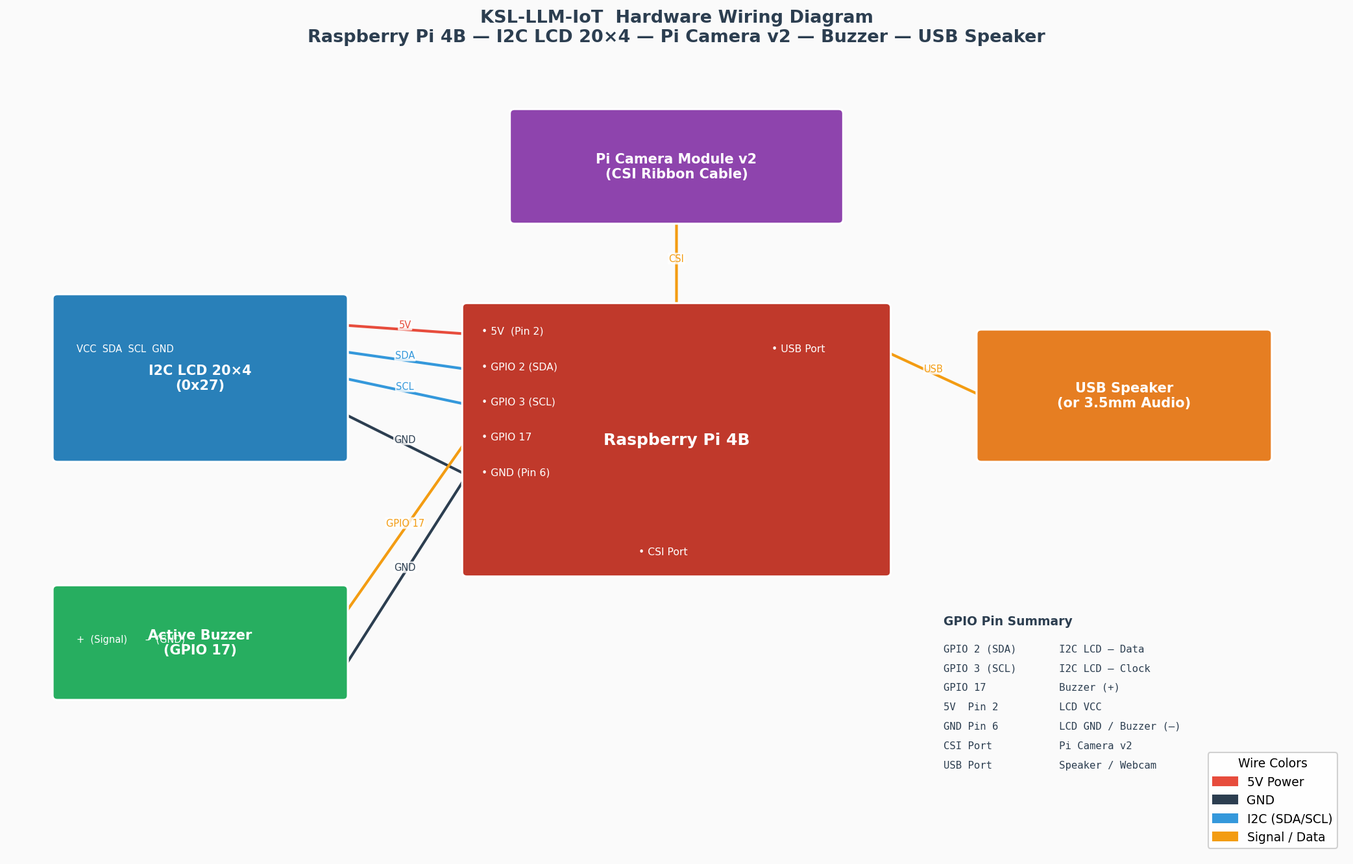
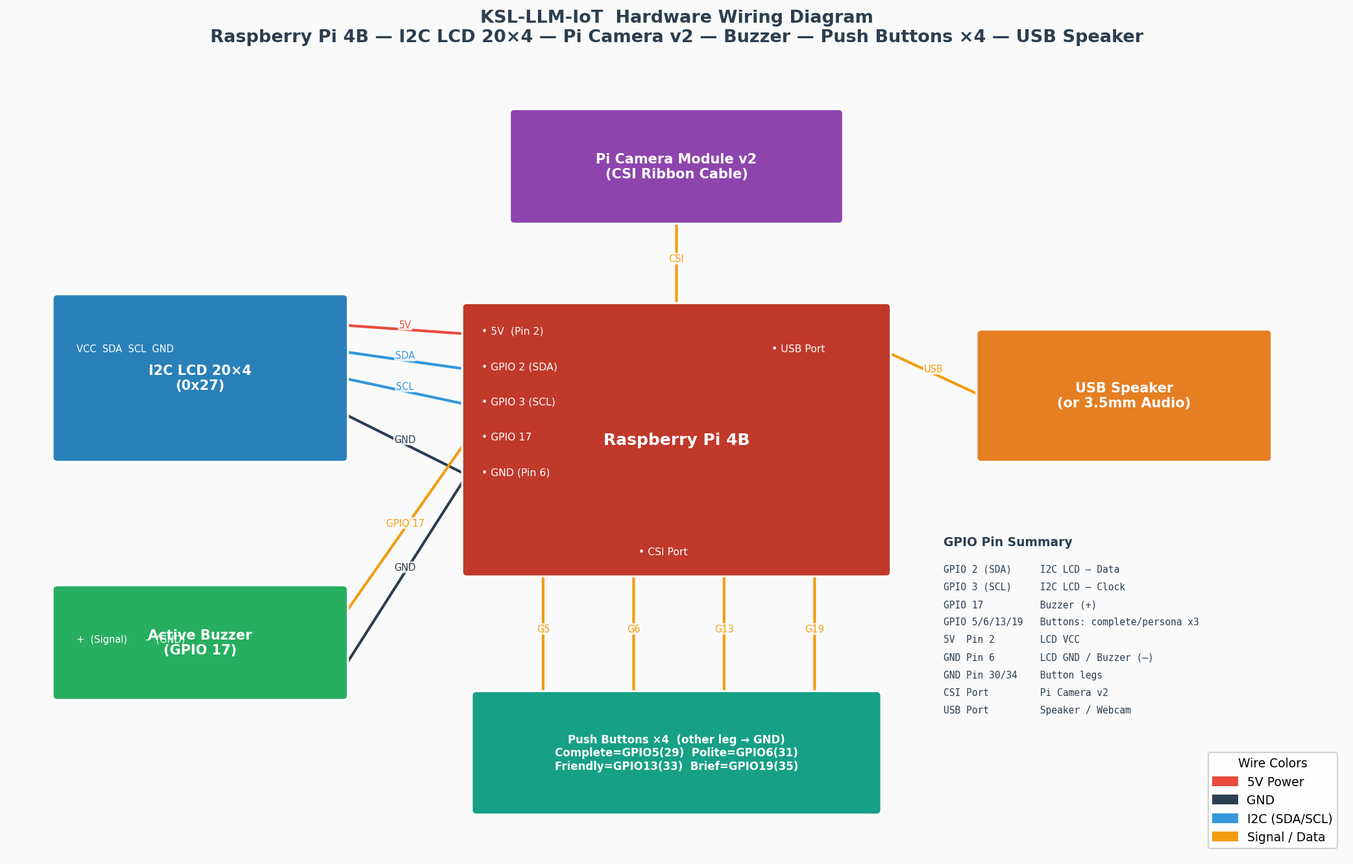
docs: 문서 전면 동기화 + CI 확장 + 의존성 핀
- USER_MANUAL: §0 트리거·문체, §1.1 버튼 결선, §2.1 .env 표(버튼·페르소나·
  HANDEDNESS·KSL_LABELS_OVERRIDE), §3.2 버튼 중심 동작 순서, §3.3 30단어
  개정, §6 버튼 트러블슈팅, §9 changelog 4행
- README: 결선표(버튼 4행+GND 페어), 30단어 표를 새 라벨로 교체(구버전
  잔재 — USER_MANUAL과 상충 상태였음), 131 파이프라인 다이어그램,
  Project Structure에 feature_format·button_input·scripts·tools 반영
- HANDOFF: §1.2 서버 E2E 검증 결과, §1.4 131 정책 개정, §1.5 축 정렬
  실측·45개 WORD 다운로드 목록·--exact, §2 함정 2-K~2-O, §4.3 버튼 결선
- 결선도 PNG 재생성 (버튼 4개 + GPIO 요약 표)
- requirements: mediapipe<0.10.30(solutions API 제거 대응),
  tensorflow<2.16(Keras3 LSTM TFLite 변환 MLIR 버그), numpy<2
- CI: compileall 범위 확장(tools·convert_aihub), augment·button 테스트 추가
- .gitignore: docs/superpowers/, .remember/

diff --git a/docs/generate_wiring_diagram.py b/docs/generate_wiring_diagram.py
@@ -22,6 +22,7 @@ C_LCD    = "#2980b9"   # LCD — 파랑
 C_BUZZ   = "#27ae60"   # 부저 — 초록
 C_CAM    = "#8e44ad"   # 카메라 — 보라
 C_SPK    = "#e67e22"   # 스피커 — 주황
+C_BTN    = "#16a085"   # 푸시 버튼 — 청록
 C_WIRE_5V  = "#e74c3c" # 5V 선
 C_WIRE_GND = "#2c3e50" # GND 선
 C_WIRE_SIG = "#f39c12" # 신호 선
@@ -60,7 +61,8 @@ def main():
     ax.set_ylim(0, 9)
     ax.axis('off')
     ax.set_title("KSL-LLM-IoT  Hardware Wiring Diagram\n"
-                 "Raspberry Pi 4B — I2C LCD 20×4 — Pi Camera v2 — Buzzer — USB Speaker",
+                 "Raspberry Pi 4B — I2C LCD 20×4 — Pi Camera v2 — Buzzer — "
+                 "Push Buttons ×4 — USB Speaker",
                  fontsize=13, fontweight='bold', pad=14, color='#2c3e50')
 
     # ── Raspberry Pi 4B (중앙) ───────────────────────────
@@ -107,6 +109,19 @@ def main():
     draw_wire(ax, bz_x + 3.0, bz_y + 0.3, rpi_x, rpi_y + 1.1,
               C_WIRE_GND, "GND")
 
+    # ── 푸시 버튼 ×4 (하단 중앙) ─────────────────────────
+    # 각 버튼: 한쪽 다리 → 해당 GPIO, 다른 다리 → GND(물리 30/34).
+    # 내부 풀업 사용 — 외부 저항 불필요, 눌림 = LOW.
+    btn_x, btn_y = 4.9, 0.5
+    draw_box(ax, btn_x, btn_y, 4.2, 1.3,
+             "Push Buttons ×4  (other leg → GND)\n"
+             "Complete=GPIO5(29)  Polite=GPIO6(31)\n"
+             "Friendly=GPIO13(33)  Brief=GPIO19(35)",
+             C_BTN, fontsize=8)
+    for i, gpio_label in enumerate(["G5", "G6", "G13", "G19"]):
+        wx = btn_x + 0.7 + i * 0.95
+        draw_wire(ax, wx, btn_y + 1.3, wx, rpi_y, C_WIRE_SIG, gpio_label)
+
     # ── Pi Camera v2 (상단) ──────────────────────────────
     cam_x, cam_y = 5.3, 7.2
     draw_box(ax, cam_x, cam_y, 3.4, 1.2, "Pi Camera Module v2\n(CSI Ribbon Cable)", C_CAM, fontsize=10)
@@ -130,21 +145,23 @@ def main():
               fontsize=9, framealpha=0.9, title="Wire Colors", title_fontsize=9)
 
     # ── GPIO 요약 표 ─────────────────────────────────────
-    table_x, table_y = 9.8, 1.0
-    ax.text(table_x, table_y + 1.6, "GPIO Pin Summary",
+    table_x, table_y = 9.8, 1.5
+    ax.text(table_x, table_y + 2.0, "GPIO Pin Summary",
             fontsize=9, fontweight='bold', color='#2c3e50')
     rows = [
         ("GPIO 2 (SDA)", "I2C LCD — Data"),
         ("GPIO 3 (SCL)", "I2C LCD — Clock"),
         ("GPIO 17",      "Buzzer (+)"),
+        ("GPIO 5/6/13/19", "Buttons: complete/persona x3"),
         ("5V  Pin 2",    "LCD VCC"),
         ("GND Pin 6",    "LCD GND / Buzzer (–)"),
+        ("GND Pin 30/34", "Button legs"),
         ("CSI Port",     "Pi Camera v2"),
         ("USB Port",     "Speaker / Webcam"),
     ]
     for i, (pin, desc) in enumerate(rows):
-        y_pos = table_y + 1.3 - i * 0.22
-        ax.text(table_x, y_pos, f"{pin:<18} {desc}", fontsize=7.5,
+        y_pos = table_y + 1.7 - i * 0.2
+        ax.text(table_x, y_pos, f"{pin:<16} {desc}", fontsize=7,
                 color='#2c3e50', family='monospace')
 
     plt.tight_layout()

diff --git a/HANDOFF.md b/HANDOFF.md
@@ -38,24 +38,33 @@ Raspberry Pi 4B (Raspberry Pi OS Trixie, aarch64) + Pi Camera v1 (OV5647) 환경
 - [x] 비동기 파이프라인 — 인식 직후 카메라 루프 정지 없음
 - [x] `Ctrl+C` 안전 종료
 
+GPU 학습 서버 (`ssh -p 30007 root@cscloud.gpu3.hufs.ac.kr`, RTX 4000 Ada 20GB, CUDA 12.7, Python 3.10, 컨테이너 메모리 제한 24GB):
+
+- [x] 종단 학습 파이프라인 — `scripts/deploy_code.sh` → `upload_dataset.sh`(MP4 제외 tar 스트림) → `server_setup.sh`(TF 2.15.1 GPU) → `run_training.sh`(변환→증강→학습→평가) → `fetch_model.sh`
+- [x] 검증 실행 (2026-06-10, 예시 데이터셋 18단어×3,540샘플, `KSL_LABELS_OVERRIDE` 사용): GPU 학습 ~84 epoch, **TFLite 평가 정확도 0.98**, 추론 0.41ms, `ksl_model.tflite` 740KB (131차원 입력 (1,30,131)→(1,18) 검증 통과). 단 시연자 1명+슬라이딩 윈도우 데이터라 수치는 낙관적 — 파이프라인 동작 검증 목적
+- [ ] 서버 confusion matrix의 한글 라벨이 □로 표시 (matplotlib 한글 폰트 부재 — 기능 무관)
+
 ### 1.3 미완료
 
-- [ ] 데이터 수집: 직접 촬영 + AI Hub 변환 병행 (§1.5 참조)
-- [ ] LSTM 학습: `model/ksl_model.tflite` 미생성
-- [ ] 하드웨어 결선: LCD / 부저 / 스피커 모두 미연결
+- [x] KSL_LABELS 30단어 확정 (2026-06-10) — AI Hub 표제어 기준 재구성, `config/settings.py` 반영 (§1.5 WORD 목록)
+- [ ] 진짜 AI Hub 데이터셋 다운로드 (§1.5의 45개 WORD 패키지) + 서버 학습
+- [ ] LSTM 학습: 운용 `model/ksl_model.tflite` 미생성 (파이프라인은 검증 완료)
+- [ ] 하드웨어 결선: LCD / 부저 / 스피커 / **푸시 버튼 4개**(완료 GPIO5, 페르소나 GPIO6·13·19 — README 결선표) 모두 미연결
 - [ ] Gemini API 키 발급 및 `.env` 등록
 - [ ] 종단 FPS 측정 (목표 ≥20 FPS)
 - [ ] 1차 발표 자료 (Week 4)
 - [ ] 데모 영상·최종 보고서 (Week 6)
 
-### 1.4 입력 차원 정책 (2026-05-16 확정)
+### 1.4 입력 차원 정책 (2026-06-10 개정 — 131차원)
 
 - KSL는 양손 언어이므로 단일 손(63차원) 입력으로는 의미 보존이 불가능.
-- 입력 = **126차원 = [LEFT 21×3 | RIGHT 21×3]**. 각 손은 자신의 손목 기준 정규화.
-- 미감지 손은 zero-pad. 양손 모두 미감지된 프레임은 시퀀스 누락(`extract_landmarks()` None).
-- MediaPipe handedness는 *입력이 거울 모드(selfie)임을 가정* — `main.py`/`collect_data.py`가 `cv2.flip(frame, 1)` 후 호출하므로 'Left' = 사용자의 해부학적 왼손.
-- 한 손 단어(예: "안녕", "주세요" 중 한 손 위주 동작)는 시연자가 자신의 **주손**으로 자연스럽게 수행한다 — 왼손잡이는 LEFT에, 오른손잡이는 RIGHT에 수집된다. `model/augment.py:flip_horizontal`이 LEFT↔RIGHT 블록 swap을 수행하므로 학습 데이터엔 양쪽 분포가 자연스럽게 채워진다. **억지로 비주손 시연을 강요하지 않는다** (부자연스러운 동작이 학습 분포에 들어가는 것을 막기 위함).
-- handedness 신뢰도: `src/hand_tracker.py:HANDEDNESS_SCORE_THRESHOLD = 0.7` 미만의 손은 미감지로 처리. 두 손이 동일 라벨로 분류되는 충돌 케이스는 score 낮은 쪽을 반대편으로 재배정하며 stderr에 warning을 출력한다. Week 2 수집 중 raw score 분포를 보고 임계값을 0.6~0.8 범위에서 재조정 가능.
+- 입력 = **131차원 = [LEFT 21×3 | RIGHT 21×3 | 손목간 벡터 3 | presence flag 2]**. 레이아웃 단일 정의: `src/feature_format.py` (추론 `hand_tracker.py`·변환 `convert_aihub.py`가 공유 — train/serve skew 구조적 차단).
+- 각 손은 손목(landmark 0) 상대좌표를 **intra-hand scale(‖landmark9−landmark0‖)로 나눠** 정규화 — 좌표계 단위(MediaPipe 0~1 vs AI Hub 미터)·카메라 거리·손 크기에 invariant. 이 scale 정규화가 없으면 AI Hub(손목상대 max≈0.09m)와 MediaPipe(max≈0.1~0.35) 분포가 어긋난다(실측).
+- 손목간 벡터 = (우손목−좌손목)/두 손 scale 평균. 양손 단어의 두 손 상대 위치 신호 보존. 한 손이라도 부재면 0.
+- 미감지 손은 zero + presence flag 0. 양손 모두 미감지된 프레임은 시퀀스 누락(`extract_landmarks()` None). 분류기는 연속 `NO_HAND_RESET_FRAMES`(10) 미검출 시 버퍼를 비운다(stale 추론 방지).
+- MediaPipe handedness는 *입력이 거울 모드(selfie)임을 가정* — `main.py`/`collect_data.py`가 `cv2.flip(frame, 1)` 후 호출하므로 'Left' = 사용자의 해부학적 왼손. `extract_landmarks(frame, mirrored=False)`로 호출하면 라벨을 swap한다.
+- 한 손 단어(예: "안녕", "주세요" 중 한 손 위주 동작)는 시연자가 자신의 **주손**으로 자연스럽게 수행한다 — 왼손잡이는 LEFT에, 오른손잡이는 RIGHT에 수집된다. `model/augment.py:flip_horizontal`이 슬롯·flag swap을 수행하므로 학습 데이터엔 양쪽 분포가 자연스럽게 채워진다. 단 flip은 **방향 의존 수어를 제외한 `FLIP_SAFE_LABELS`만 opt-in**. **억지로 비주손 시연을 강요하지 않는다**.
+- handedness 신뢰도: `HANDEDNESS_SCORE_THRESHOLD`(settings.py, 기본 0.7, `.env` 오버라이드) 미만의 손은 라벨 대신 **x좌표 fallback**(거울모드에서 작은 x = 좌손)으로 슬롯 배정. 두 손이 동일 라벨로 분류되는 충돌 케이스는 score 낮은 쪽을 반대편으로 재배정하며 stderr에 warning을 출력한다.
 
 ### 1.5 AI Hub 수어 데이터셋 변환 파이프라인 (2026-05-27)
 
@@ -79,40 +88,47 @@ Raspberry Pi 4B (Raspberry Pi OS Trixie, aarch64) + Pi Camera v1 (OV5647) 환경
 
 변환 시 confidence를 버리고 (x,y,z)만 추출한 뒤 손목 기준 정규화를 적용한다. `hand_tracker.py:_normalize_hand()`와 동일한 로직이다.
 
-**KSL_LABELS 매칭 현황 (3,000개 단어 중):**
+**KSL_LABELS 매칭 현황 (2026-06-10 라벨 전면 개정 후):**
 
-- 정확 매칭: 14개 — 나, 당신, 좋다, 싫다, 맞다, 가다, 오다, 서다, 자다, 배고프다, 목마르다, 아프다, 피곤하다, 완료
-- 어근 매칭: 5개 — 감사합니다(←감사), 먹다(←먹), 행복하다(←행복), 얼마예요(←얼마), 기다리세요(←기다리다)
-- 매칭 없음: 11개 — 안녕, 미안합니다, 반갑습니다, 우리, 네, 아니오, 마시다, 앉다, 도와주세요, 주세요, 화장실
+- 30단어 전부 AI Hub 사전 표제어와 **정확 매칭** (30/30, WORD 패키지 45개).
+- 변환은 반드시 `--exact` 모드 사용 — 어근 매칭은 의미 오염을 유발한다 (실측: "기다리세요"↔"다리", "맞다"↔"뺨맞다", "먹다"↔"얻어먹다"). 이 오염 때문에 먹다·기다리세요는 라벨에서 제외하고 생활명사·감정어로 교체했다.
 
-**현재 보유 키포인트:** WORD1501-1520 (운전면허, 골키퍼 등) — KSL_LABELS와 겹침 없음. 아래 WORD번호에 해당하는 키포인트 패키지를 AI Hub에서 추가 다운로드해야 한다:
+**현재 보유 키포인트:** WORD1501-1520 (운전면허, 골키퍼 등) — 새 KSL_LABELS와 겹침 없음 (파이프라인 검증용으로만 사용됨). 아래 45개 WORD 패키지의 키포인트를 AI Hub에서 다운로드해야 한다:
 
 ```
-WORD0738(좋다)  WORD0742(완료)  WORD0943(가다)  WORD0953(배고프다)
-WORD1148(서다)  WORD1149(오다)  WORD1152(아프다) WORD1157(나)
-WORD1158(피곤하다) WORD1169(행복)  WORD1174(맞다)  WORD1278(싫다)
-WORD1290(감사)  WORD1353(당신)  WORD1377(자다)  WORD2036(목마르다)
+나(1157)  당신(1353)  좋다(0738,1191)  싫다(1278,1385)  맞다(1174,2317,2318)
+가다(0943,0944,0946,1345)  오다(1149)  서다(1148,1344)  자다(1377,1378,1544)
+주다(2394,2395,2396)  배고프다(0953,1197)  목마르다(2036)  아프다(1152)
+피곤하다(1158)  춥다(1248)  덥다(1382)  슬프다(0009)  화나다(1236)
+행복(1169)  감사(1290)  부탁(1589)  돕다(2388,2389,2390)
+밥(1534)  병원(1496)  의사(0163)  엄마(1528)  가족(1492)  친구(1204)
+얼마(0436)  완료(0742)
 ```
 
 **변환 스크립트 사용법:**
 
 ```bash
-# 매칭 현황 확인 (변환 없이 스캔만)
-python convert_aihub.py --dataset /path/to/aihub/dataset --scan
+# 매칭 현황 확인 (변환 없이 스캔만) — --exact 필수 (어근 오염 차단)
+python convert_aihub.py --dataset /path/to/aihub/dataset --scan --exact
 
 # 정면 카메라만 변환 (실 사용 환경과 유사)
-python convert_aihub.py --dataset /path/to/aihub/dataset --angles F
+python convert_aihub.py --dataset /path/to/aihub/dataset --angles F --exact
 
 # 전체 카메라 각도 사용 (데이터 5배, 다양성 확보)
-python convert_aihub.py --dataset /path/to/aihub/dataset
+python convert_aihub.py --dataset /path/to/aihub/dataset --exact
 
 # 슬라이딩 윈도우 stride 조정 (작을수록 샘플 많음)
-python convert_aihub.py --dataset /path/to/aihub/dataset --stride 10
+python convert_aihub.py --dataset /path/to/aihub/dataset --stride 10 --exact
 ```
 
 출력은 `data/landmarks/<단어>/aihub_NNNN.csv`로 저장되며, 기존 직접 촬영 데이터와 동일 디렉터리에 병합된다. `train.py`가 자동으로 인식한다.
 
-**좌표계 차이 주의:** AI Hub는 멀티카메라 3D 복원 좌표(미터 단위), MediaPipe는 0~1 정규화 좌표이다. 손목 기준 상대 좌표 변환으로 스케일 차이를 흡수하지만, 학습 시 직접 촬영 데이터와 혼합 비율을 조절하며 검증 정확도를 모니터링해야 한다.
+**좌표계 차이 — 실측 확정 (2026-06-10):** AI Hub는 멀티카메라 3D 복원 좌표(미터, 비거울), MediaPipe는 0~1 정규화 좌표(거울 영상)이다. `tools/verify_aihub_alignment.py`가 동일 영상의 MP4(런타임 경로)와 키포인트를 프레임별 비교한 결과:
+
+- 필요한 변환 = **x 부호 반전** (`convert_aihub.py:AIHUB_AXIS_SIGNS = (-1, 1, 1)`), 좌우 슬롯 swap 불필요.
+- 변환 적용 후 상관계수 x=0.954, y=0.982, z=0.577 (무변환이면 x=−0.954 — 좌우 반전 데이터로 학습하게 됨).
+- z 상관 0.577은 MediaPipe 단안 추정 z의 한계 — 방향 일치하는 보조 신호로 유효. ToF 카메라 불필요.
+- 스케일 차이는 feature_format의 intra-hand scale 정규화가 흡수. 데이터셋 버전 변경 시 검증 스크립트를 재실행한다.
 
 ---
 
@@ -132,6 +148,12 @@ python convert_aihub.py --dataset /path/to/aihub/dataset --stride 10
 | 2-H | 콘솔에 한글 깨짐 (`?덈뀞`) | PuTTY 기본 인코딩이 UTF-8 아님 | PuTTY → Window → Translation → Remote character set = **UTF-8** |
 | 2-I | 인식 직후 카메라 정지 (1~3초) | Gemini API + LCD I2C + beep이 메인 루프에서 동기 실행 | 워커 스레드로 분리 (`cdb2ac2`) |
 | 2-J | `gh pr edit` title 갱신 안 됨 | GitHub의 Projects(classic) deprecation 경로 충돌 | `gh api -X PATCH /repos/.../pulls/N`으로 직접 호출 |
+| 2-K | 모델이 정확해도 항상 엉뚱한 단어 출력 | sklearn `LabelEncoder`가 라벨을 유니코드 정렬 → 학습 인덱스 ≠ `KSL_LABELS[label_idx]` 역매핑 | LabelEncoder 금지, `train.py:LABEL_TO_IDX` 원본 순서 인코딩 (smoke test가 회귀 가드) |
+| 2-L | TFLite 변환 시 `LLVM ERROR: Failed to infer result type(s)` abort | TF 2.16+(Keras 3)의 LSTM 변환 MLIR 버그 | `tensorflow<2.16` 고정 (2.15.1 검증) |
+| 2-L′ | TFLite 변환 시 `TensorListReserve ... element_shape to be static` 또는 OOM kill(exit 137) | ① dynamic batch에서 LSTM TensorList shape 미확정 ② float16 양자화 패스의 메모리 폭주 (24GB 컨테이너 실측) | ① batch_size=1 고정 모델로 변환(`train.py:convert_and_verify_tflite`) ② float16 양자화 미적용 — 모델이 float32로도 ~740KB |
+| 2-M | `AttributeError: module 'mediapipe' has no attribute 'solutions'` | mediapipe 0.10.30대부터 legacy solutions API 제거 | `mediapipe<0.10.30` 고정 |
+| 2-N | AI Hub 학습 모델이 실 카메라에서 좌우 반전 동작 인식 | AI Hub는 비거울 월드좌표, 런타임은 cv2.flip 거울 영상 | `convert_aihub.py:AIHUB_AXIS_SIGNS=(-1,1,1)` x 반전 (§1.5, 실측 확정) |
+| 2-O | WSL `/mnt/c` 위 venv에서 TF 업/다운그레이드 후 `No module named 'tensorflow.core'` | NTFS에서 pip 파일 교체 잔재 | `uv pip uninstall tensorflow keras` 후 재설치 |
 
 ---
 
@@ -245,6 +267,7 @@ README §🔌 Hardware Connection 참조. 핵심:
 
 - I2C LCD: SDA=GPIO2(Pin 3), SCL=GPIO3(Pin 5), VCC=5V(Pin 2), GND(Pin 6). 주소 `0x27` 기본.
 - 부저: 신호=GPIO17(Pin 11), GND(Pin 9).
+- 푸시 버튼 4개: 완료=GPIO5(Pin 29), 정중=GPIO6(Pin 31), 친근=GPIO13(Pin 33), 간단=GPIO19(Pin 35). 각 버튼은 핀↔GND(Pin 30/34) 사이 연결 — 내부 풀업, 외부 저항 불필요. 완료 버튼이 문장 생성 기본 트리거 (침묵 트리거는 기본 비활성).
 - 스피커: 3.5mm 또는 USB.
 - I2C 활성화: `sudo raspi-config` → Interface Options → I2C → Enable → 재부팅.
 
@@ -327,5 +350,7 @@ README §🔌 Hardware Connection 참조. 핵심:
 
 | 날짜 | 작성자 | 내용 |
 |------|--------|------|
+| 2026-06-10 | 이성준 + Claude (Opus 4.8) | 물리 버튼 4개(완료+페르소나 3) 도입 — src/button_input.py, 침묵 트리거 기본 비활성(SILENCE_TRIGGER_SEC=0), 페르소나 비프 1/2/3회 피드백, 결선도 재생성 |
+| 2026-06-10 | 이성준 + Claude (Opus 4.8) + Codex 리뷰 | 131차원 전환(§1.4), AI Hub 축 변환 실측 확정(§1.5), LabelEncoder 버그 수정, GPU 서버 학습 파이프라인(scripts/) + 서버 E2E 검증, 함정 2-K~2-O 추가 |
 | 2026-05-27 | 이성준 + Claude | §1.1 PR #7-#8 반영, §1.5 AI Hub 데이터셋 변환 파이프라인 추가, §6 convert_aihub.py 등록 |
 | 2026-05-15 | 이성준 + Claude | 초안 작성 (PR #2 진행 중, Week 2 진입 시점, smoke-test 인프라 완성) |

diff --git a/USER_MANUAL.md b/USER_MANUAL.md
@@ -23,7 +23,8 @@
 ```
 
 - **인식 단위**: 30프레임(약 1초) 시퀀스 → 한 단어
-- **문장화 트리거**: 단어 "완료" 수행 또는 3초 무동작
+- **문장화 트리거**: **완료 버튼**(GPIO5) 또는 단어 "완료" 수행 (3초 무동작 트리거는 기본 비활성)
+- **문체 선택**: 버튼 3개 — 정중·친근·간단 (비프 1/2/3회로 확인)
 - **신호음**: 단어가 인식될 때마다 부저 짧게 1회
 
 ---
@@ -38,6 +39,7 @@
 | 카메라 | Pi Camera v2 **또는** USB 웹캠 | 자동 감지(`src/main.py:CameraReader`) |
 | I2C LCD | 20×4, 주소 `0x27` 기본 | `LCD_I2C_ADDRESS` 환경변수로 변경 가능 |
 | 부저 | Active 부저 | GPIO17(BCM) 기본 — `BUZZER_PIN` |
+| 푸시 버튼 ×4 | 모멘터리 택트 스위치 | 문장 완료 GPIO5(물리 29) / 정중 GPIO6(31) / 친근 GPIO13(33) / 간단 GPIO19(35). 각 버튼은 핀과 GND(물리 30·34) 사이 연결 — 내부 풀업, 외부 저항 불필요 |
 | 스피커 | 3.5mm 잭 또는 USB | TTS 출력용 |
 | microSD | 32GB 이상 (Class 10) | OS + 모델 + 데이터 |
 | 전원 | 5V/3A USB-C | 카메라+스피커 동시 사용 시 필수 |
@@ -85,10 +87,19 @@ nano .env       # GEMINI_API_KEY 등 채우기
 | `MODEL_PATH` | TFLite 모델 경로 | `model/ksl_model.tflite` |
 | `CONFIDENCE_THRESHOLD` | 단어 확정 임계 신뢰도 (0~1) | `0.85` |
 | `SEQUENCE_LENGTH` | 시퀀스 프레임 수 | `30` |
-| `SILENCE_TRIGGER_SEC` | 무동작 후 문장화 시간(초) | `3.0` |
+| `SILENCE_TRIGGER_SEC` | 무동작 자동 문장화(초). `0` = 비활성 — 완료 버튼이 트리거 담당 | `0` |
 | `LCD_I2C_ADDRESS` | LCD 주소 | `0x27` |
 | `BUZZER_PIN` | 부저 GPIO(BCM) | `17` |
+| `BUTTON_COMPLETE_PIN` | 문장 완료 버튼 GPIO(BCM) | `5` |
+| `BUTTON_PERSONA_POLITE_PIN` | 정중 문체 버튼 GPIO(BCM) | `6` |
+| `BUTTON_PERSONA_FRIENDLY_PIN` | 친근 문체 버튼 GPIO(BCM) | `13` |
+| `BUTTON_PERSONA_BRIEF_PIN` | 간단 문체 버튼 GPIO(BCM) | `19` |
+| `BUTTON_DEBOUNCE_MS` | 버튼 디바운스(ms) | `300` |
 | `CAMERA_INDEX` | OpenCV 카메라 인덱스 | `0` |
+| `HANDEDNESS_SCORE_THRESHOLD` | 좌/우 손 판별 신뢰도 임계값 (미달 시 위치 기반 배정) | `0.7` |
+| `NO_HAND_RESET_FRAMES` | 연속 미검출 시 인식 버퍼 초기화 프레임 수 | `10` |
+| `KSL_LABELS_OVERRIDE` | (학습 실험 전용) 단어 목록 대체 — 운용 시 비움 | (비움) |
+| `SENTENCE_PERSONA` | 문장 생성 문체 — `정중`/`친근`/`간단` | `정중` |
 
 > LCD 주소가 불명확한 경우 `i2cdetect -y 1`로 I2C 버스 상의 장치를 확인한다.
 
@@ -116,19 +127,21 @@ Show your sign...
 2. 등록된 30개 수어 단어 중 하나를 **약 1초간** 수행합니다.
 3. 인식 시 **부저음** + LCD에 단어와 신뢰도가 표시됩니다.
 4. 단어를 이어서 수행하면 버퍼에 누적됩니다.
-5. **"완료" 수어**를 수행하거나 **3초간 가만히** 있으면 Gemini가 자연어 문장을 만들어 LCD/스피커로 출력합니다.
+5. **완료 버튼**(GPIO5)을 누르면 Gemini가 자연어 문장을 만들어 LCD/스피커로 출력한다. "완료" 수어도 동일하게 동작한다. (무동작 자동 문장화는 기본 비활성 — `.env` `SILENCE_TRIGGER_SEC`로 복원 가능)
+6. **문체 버튼** 3개로 출력 문체를 즉시 전환한다 — 정중(비프 1회) / 친근(비프 2회) / 간단(비프 3회). 비프 횟수로 화면을 보지 않아도 적용 문체를 확인할 수 있다. 시작 문체는 `.env` `SENTENCE_PERSONA`. 모니터 연결(GUI) 모드에서는 `SPACE` 키 = 완료, `p` 키 = 문체 순환.
 
 ### 3.3 등록 단어 (총 30개)
 
 | 분류 | 단어 |
 |------|------|
-| 인사 | 안녕, 감사합니다, 미안합니다, 반갑습니다 |
-| 대명사 | 나, 당신, 우리 |
-| 응답 | 네, 아니오, 좋다, 싫다, 맞다 |
-| 동사 | 먹다, 마시다, 가다, 오다, 앉다, 서다, 자다 |
-| 상태 | 배고프다, 목마르다, 아프다, 피곤하다, 행복하다 |
-| 요청 | 도와주세요, 주세요, 기다리세요 |
-| 기타 | 화장실, 얼마예요, **완료**(전송 트리거) |
+| 인칭·응답 | 나, 당신, 좋다, 싫다, 맞다 |
+| 동사 | 가다, 오다, 서다, 자다, 주다 |
+| 상태 | 배고프다, 목마르다, 아프다, 피곤하다, 춥다, 덥다, 슬프다, 화나다 |
+| 감정·의사소통 | 행복, 감사, 부탁, 돕다 |
+| 생활 명사 | 밥, 병원, 의사, 엄마, 가족, 친구, 얼마 |
+| 시스템 | **완료**(전송 트리거) |
+
+단어 목록은 AI Hub 수어 영상 데이터셋의 사전 표제어와 일치한다 (2026-06-10 개정).
 
 > 각 단어의 표준 동작은 [국립국어원 한국수어사전](https://sldict.korean.go.kr) 에서 검색해 참고한다.
 
@@ -263,7 +276,9 @@ PuTTY → Window → Translation → "Remote character set"을 `UTF-8`로 설정
 | `rpicam-vid backend skipped` | 5초 안에 첫 YUV 프레임 못 받음 | 다른 프로세스가 카메라 점유 중인지 확인(`pgrep -a rpicam`), 다른 카메라 앱 종료 후 재실행 |
 | 콘솔에 한글이 `?덈뀞` 처럼 깨짐 | PuTTY 인코딩 미설정 | PuTTY → Window → Translation → Remote character set = **UTF-8** |
 | LCD에 아무것도 안 뜸 | I2C 비활성화 / 주소 다름 | `sudo raspi-config`로 I2C ON, `i2cdetect -y 1` |
-| `RPi.GPIO not available` 메시지 | 비-RPi 환경에서 실행 중 | 정상 — PC 개발 시 부저만 비활성화됨 |
+| `RPi.GPIO not available` 메시지 | 비-RPi 환경에서 실행 중 | 정상 — PC 개발 시 부저·버튼 비활성, GUI 키(`SPACE`/`p`)로 대체 |
+| 버튼을 눌러도 반응 없음 | 배선이 GND 아닌 3.3V/5V에 연결됨 / 핀 번호 불일치 | 버튼은 GPIO핀↔GND 연결(눌림=LOW). `.env`의 `BUTTON_*_PIN`(BCM)과 실제 배선 일치 확인 |
+| 버튼 1회 눌렀는데 여러 번 동작 | 스위치 채터링 | `BUTTON_DEBOUNCE_MS` 증가 (기본 300) |
 | 단어 인식이 자꾸 틀림 | 학습 데이터 부족/편향 | 본인 환경에서 추가 데이터 수집 → 재학습 |
 | Gemini 응답 없음 | API 키 미설정 / 쿼터 초과 | `.env`의 `GEMINI_API_KEY` 확인, 네트워크 점검 |
 | TTS 무음 | 스피커 라우팅 | `raspi-config` → System Options → Audio |
@@ -295,6 +310,10 @@ PuTTY → Window → Translation → "Remote character set"을 `UTF-8`로 설정
 
 | 날짜 | 내용 |
 |------|------|
+| 2026-06-10 | 물리 버튼 4개 도입 (§1.1 결선) — 문장 완료 버튼이 기본 트리거가 되고 무동작 자동 문장화(`SILENCE_TRIGGER_SEC`)는 기본 비활성. 문체 버튼 3개(비프 1/2/3회 피드백) 추가 |
+| 2026-06-10 | 문장 생성 문체(페르소나) 기능 추가 — `.env` `SENTENCE_PERSONA`=정중/친근/간단, GUI 모드 `p` 키 순환 (§2.1, §3.2) |
+| 2026-06-10 | 등록 단어 30개 전면 개정 (§3.3) — AI Hub 데이터셋 표제어 기준. 기존 단어 중 17개 유지, 13개 교체. **이전 단어로 학습된 모델·수집 데이터와 호환되지 않음** |
+| 2026-06-10 | 입력 포맷을 131차원(양손 + 손 크기 정규화 + 손목간 벡터 + presence flag)으로 전환 — **기존 .tflite 모델·수집 CSV는 재학습/재수집 필요**. AI Hub 데이터셋 변환(`convert_aihub.py`)이 동일 포맷으로 출력. `.env` 키 3개 추가(아래 §2.1) |
 | 2026-05-14 | Gemini SDK를 `google-genai`로 마이그레이션 (`google-generativeai`는 EOL). 메인 인식 루프 블로킹 제거 — `SentenceBuilder`의 Gemini 호출, LCD I2C 쓰기, 부저 펄스를 모두 워커 스레드로 분리. 인식 직후 카메라 정지 시간이 사라짐 |
 | 2026-05-14 | `rpicam-vid` 서브프로세스 카메라 백엔드 추가 — Pi Camera v1/v2를 venv에서 잡지 못하던 문제 해소. SSH/PuTTY용 헤드리스 모드(`KSL_HEADLESS=1`) 도입. PuTTY 파일 전송 가이드(§5.1) 추가 |
 | 2026-05-14 | 초기 작성 — 30단어, Gemini 2.5 Flash, 카메라 자동감지 반영 |

diff --git a/README.md b/README.md
@@ -12,7 +12,10 @@ This project builds a real-time Korean Sign Language (KSL) translation system ru
 
 **Pipeline:**
 ```
-Camera → MediaPipe Hands → LSTM Classifier (TFLite)
+Camera → MediaPipe Hands (2 hands, handedness-aware)
+       → 131-dim feature (wrist-relative + intra-hand scale norm
+                          + wrist-to-wrist vector + presence flags)
+       → LSTM Classifier (TFLite)
        → Word Buffer → Gemini API → TTS + LCD Output
 ```
 
@@ -22,7 +25,7 @@ Camera → MediaPipe Hands → LSTM Classifier (TFLite)
 
 | Category | Technology |
 |----------|-----------|
-| Hardware | Raspberry Pi 4B, Pi Camera (v1 / v2 / Module 3), I2C LCD 20×4, GPIO Buzzer |
+| Hardware | Raspberry Pi 4B, Pi Camera (v1 / v2 / Module 3), I2C LCD 20×4, GPIO Buzzer, Push buttons ×4 (sentence-complete + persona) |
 | Language | Python **3.11** (mediapipe has no aarch64 wheels for Python 3.13 as of this writing) |
 | CV | MediaPipe Hands, OpenCV 4 |
 | AI/ML | TensorFlow (PC training) / `tflite-runtime` (RPi inference) |
@@ -47,9 +50,11 @@ KSL-LLM-IoT/
 │   └── ksl_model.tflite  # Compiled TFLite model (not committed)
 ├── src/
 │   ├── main.py             # Entry point, camera backends (OpenCV / rpicam-vid / picamera2)
-│   ├── hand_tracker.py     # MediaPipe landmark extraction
-│   ├── classifier.py       # TFLite inference (with dummy fallback)
-│   ├── sentence_builder.py # Word buffer + google-genai (with offline fallback)
+│   ├── hand_tracker.py     # MediaPipe → 131-dim feature (handedness slots, x-fallback)
+│   ├── feature_format.py   # Shared 131-dim layout + normalization (train/serve single source)
+│   ├── classifier.py       # TFLite inference (dummy fallback, stale-buffer reset)
+│   ├── sentence_builder.py # Word buffer + google-genai (offline fallback, persona styles)
+│   ├── button_input.py     # Physical buttons (complete + persona ×3, queue-based)
 │   ├── tts_output.py       # gTTS / pyttsx3 voice output (async)
 │   └── lcd_display.py      # I2C LCD controller (async queue)
 ├── config/
@@ -57,8 +62,12 @@ KSL-LLM-IoT/
 ├── docs/
 │   ├── wiring_diagram.png
 │   └── generate_wiring_diagram.py
+├── scripts/                # GPU-server training pipeline (deploy/upload/setup/train/fetch)
+├── tools/
+│   └── verify_aihub_alignment.py  # AI Hub ↔ MediaPipe axis alignment measurement
 ├── tests/
-├── collect_data.py         # Landmark CSV collection (PC)
+├── collect_data.py         # Landmark CSV collection (PC webcam)
+├── convert_aihub.py        # AI Hub keypoint JSON → 131-dim CSV (--exact matching)
 ├── make_dummy_model.py     # Smoke-test dummy TFLite generator
 ├── requirements.txt        # PC: training + dev
 ├── requirements-rpi.txt    # RPi: inference only
@@ -76,15 +85,14 @@ KSL-LLM-IoT/
 
 | Category | Words |
 |----------|-------|
-| Greetings | 안녕, 감사합니다, 미안합니다, 반갑습니다 |
-| Pronouns | 나/저, 당신/너, 우리 |
-| Yes/No | 예/네, 아니오, 좋다, 싫다, 맞다 |
-| Basic Verbs | 먹다, 마시다, 가다, 오다, 앉다, 서다, 자다 |
-| States | 배고프다, 목마르다, 아프다, 피곤하다, 행복하다 |
-| Requests | 도와주세요, 주세요, 기다리세요 |
-| Others | 화장실, 얼마예요, **완료** (transmit trigger) |
+| Pronouns / Response | 나, 당신, 좋다, 싫다, 맞다 |
+| Verbs | 가다, 오다, 서다, 자다, 주다 |
+| States | 배고프다, 목마르다, 아프다, 피곤하다, 춥다, 덥다, 슬프다, 화나다 |
+| Emotion / Intent | 행복, 감사, 부탁, 돕다 |
+| Daily Nouns | 밥, 병원, 의사, 엄마, 가족, 친구, 얼마 |
+| System | **완료** (transmit trigger sign) |
 
-`완료` is the explicit transmit trigger. A 3-second silence after the last recognition also triggers sentence generation.
+The word list matches AI Hub sign-language dataset headwords exactly (revised 2026-06-10; see `convert_aihub.py --exact`). Sentence generation is triggered by the **physical complete button** (GPIO5) or the `완료` sign. Silence-based auto-trigger is disabled by default (`SILENCE_TRIGGER_SEC=0`).
 
 ---
 
@@ -98,6 +106,7 @@ KSL-LLM-IoT/
 | Pi Camera | v1 (OV5647, fixed focus) / v2 (IMX219, fixed focus) / Module 3 (IMX708, autofocus) | CSI ribbon |
 | I2C LCD | 20×4, default address `0x27` | Address override via `LCD_I2C_ADDRESS` in `.env` |
 | Active Buzzer | 3.3V or 5V active type | Pin override via `BUZZER_PIN` in `.env` |
+| Push Buttons ×4 | Momentary tactile switch | Sentence-complete + persona ×3, internal pull-up (no external resistor) |
 | Speaker | 3.5mm jack or USB audio | TTS playback |
 | microSD | 32GB+, Class 10 | OS + dataset + model |
 | Power | 5V / 3A USB-C | Required when camera + speaker run concurrently |
@@ -112,6 +121,10 @@ KSL-LLM-IoT/
 | SCL | GPIO3 | Pin 5 | I2C LCD SCL |
 | Buzzer signal | **GPIO17** (default `BUZZER_PIN`) | Pin 11 | Active buzzer + |
 | Buzzer GND | — | Pin 9 | Active buzzer − |
+| Complete button | **GPIO5** (`BUTTON_COMPLETE_PIN`) | Pin 29 | Button leg A (leg B → GND Pin 30) |
+| Persona: polite | **GPIO6** (`BUTTON_PERSONA_POLITE_PIN`) | Pin 31 | Button leg A (leg B → GND Pin 30) |
+| Persona: friendly | **GPIO13** (`BUTTON_PERSONA_FRIENDLY_PIN`) | Pin 33 | Button leg A (leg B → GND Pin 34) |
+| Persona: brief | **GPIO19** (`BUTTON_PERSONA_BRIEF_PIN`) | Pin 35 | Button leg A (leg B → GND Pin 34) |
 | Camera | — | CSI port | Pi Camera ribbon |
 | Audio | — | 3.5mm jack or USB | Speaker |
 

diff --git a/data/landmarks/README.md b/data/landmarks/README.md
@@ -2,7 +2,11 @@
 # Raw video files are NOT committed (see .gitignore).
 #
 # Structure:
-#   data/landmarks/{word}/{index:04d}.csv
-#   Each CSV: 30 rows (frames) x 126 columns
-#            = [LEFT 21 landmarks × 3 axes | RIGHT 21 landmarks × 3 axes]
-#   미감지 손은 zero-pad. 양손 모두 미감지된 프레임은 시퀀스에 포함되지 않는다.
+#   data/landmarks/{word}/{index:04d}.csv       (직접 촬영: collect_data.py)
+#   data/landmarks/{word}/aihub_{index:04d}.csv (AI Hub 변환: convert_aihub.py)
+#   Each CSV: 30 rows (frames) x 131 columns
+#            = [LEFT 21 landmarks × 3 axes | RIGHT 21 landmarks × 3 axes
+#               | wrist-to-wrist vector 3 | presence flag 2]
+#   각 손은 손목 상대좌표를 intra-hand scale(‖landmark9−landmark0‖)로 나눠
+#   정규화한다. 미감지 손은 zero + presence flag 0. 양손 모두 미감지된
+#   프레임은 시퀀스에 포함되지 않는다. 레이아웃 정의: src/feature_format.py
